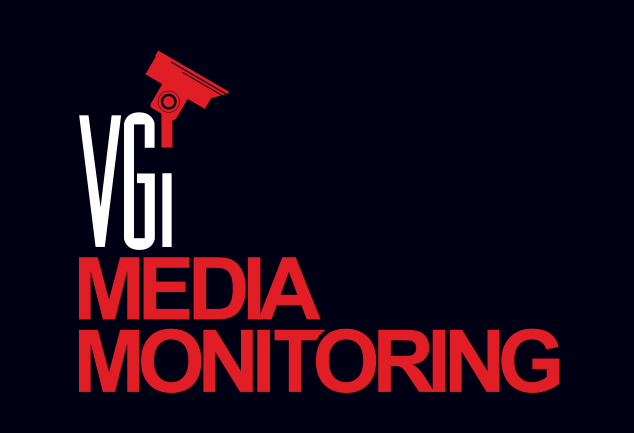
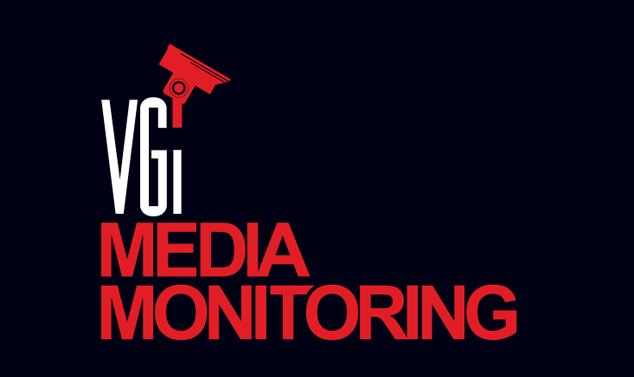
home v0.3
home v0.3

Changed region(s): [[0.1199, 0.1167, 0.8991, 0.9337]]

diff --git a/www/home.html b/www/home.html
@@ -26,65 +26,20 @@
   <body>
     <div id="main"> <!-- Main Container -->
 
-      <!-- Sidebar -->
-      <ul id="slide-out" class="side-nav primary-color1 collapsible">
-        <li>
-          <div class="sidenav-header">
 
-            <!-- Srearch bar 
-            <nav class="searchnav">
-              <div class="nav-wrapper">
-                <form>
-                  <div class="input-field">
-                    <input id="search" type="search" required>
-                    <label for="search"><i class="ion-android-search"></i></label>
-                    <i class="ion-android-close"></i>
-                  </div>
-                </form>
-              </div>
-            </nav> -->
-
-            <!-- Social Bar 
-            <div class="nav-social">
-              <i class="ion-social-facebook"></i>
-              <i class="ion-social-twitter"></i>
-              <i class="ion-social-tumblr"></i>
-            </div> -->
-
-            <!-- Avatar -->
-            <div class="nav-avatar">
-              <img class="circle avatar" src="img/user5.jpg" alt="">
-              <div class="avatar-body">
-                <h3>VGI</h3>
-                <p>VGI Global Media</p>
-              </div>
-            </div>
-          </div>
-        </li>
-
-        <!-- Menu -->
-        <li><a href="contact.html" class="no-child"><i class="ion-ios-home-outline"></i> Home</a></li>
-        <li><a href="contact.html" class="no-child"><i class="ion-ios-location-outline"></i> Contact</a></li>
-      </ul>
-      <!-- End of Sidebars -->
-      
-      <!-- Toolbar -->
-      <div class="primary-color">
-        <div class="title" align="center" style="line-height:300px; background-color:#e31f26"><img src="img/home.png" width="634" alt=""/></div>
-     
-      </div>
-      <!-- End of Toolbar -->
-      
+            
       <!-- Page Contents -->
       <div class="page-all">
-        <div class="valign w-80">Annoucement(s)</div>
-        <div id="annoucement" class="valign w-80" style="background-color:#333344; height:260px;">
+      <div class="title" align="center" style="line-height:300px; background-color:#e31f26"><img src="img/home.png" width="634" alt=""/></div>
+        <div class="valign w-80" style="font-size:18px;">Annoucement(s)</div>
+        <div id="annoucement" class="valign w-80" style="background-color:#333344; height:150px; font-size:14px; overflow-x: auto; word-wrap:break-word;">
+        
 
-dsfdsfsd
+Lorem ipsum dolor sit amet, rhoncus eu amet, felis urna luctus id arcu lacinia inceptos, et nulla conubia risus rhoncus sed nibh, bibendum faucibus massa, eget interdum bibendum. Quisque wisi neque quam, conubia malesuada, eu ut integer aenean lacus augue, sed dolor suspendisse, metus vitae elit neque. Nam morbi laoreet vel integer leo. Orci ante, sed vitae et dolor praesent sem. Aenean tempor, egestas leo ut quo, nibh vestibulum consequatur neque pellentesque quisque elementum. Vitae malesuada sed, sapien at, lobortis ut orci quis aenean. Malesuada sodales imperdiet. Lorem eu eget urna bibendum fusce, conubia cum eleifend et, sed praesent. Est faucibus ad quisque, suscipit at sit, amet vehicula blandit donec. Adipiscing ac in, aenean fermentum in. Amet sed sodales quis, praesent tellus sapien ut, risus torquent gravida vestibulum, sagittis voluptas vitae dictumst orci eget.
 
 
         </div>
-		<div id="bt-live" class="bt-live" style="bottom:40px; position:absolute; width:100%;"><img src="img/bt-live.png" alt=""/></div>
+		<div id="btn-live" class="btn-live" style="bottom:20px; position:absolute; width:100%;"><img src="img/bt-live.png" alt=""/></div>
       </div> 
       <!-- End of Page Contents -->
 

diff --git a/www/test.html b/www/test.html
@@ -1,0 +1,42 @@
+<!doctype html>
+<html>
+<head>
+<meta charset="UTF-8">
+<title>Untitled Document</title>
+<style>
+html,
+body {
+   margin:0;
+   padding:0;
+   height:100%;
+}
+#container {
+   min-height:100%;
+   position:relative;
+}
+#header {
+   background:#ff0;
+   padding:10px;
+}
+#body {
+   padding:10px;
+   padding-bottom:60px;   /* Height of the footer */
+}
+#footer {
+   position:absolute;
+   bottom:0;
+   width:100%;
+   height:60px;   /* Height of the footer */
+   background:#6cf;
+}
+</style>
+</head>
+
+<body>
+<div id="container">
+   <div id="header"></div>
+   <div id="body"></div>
+   <div id="footer"></div>
+</div>
+</body>
+</html>

diff --git a/www/css/style.css b/www/css/style.css
@@ -175,7 +175,9 @@ h1.title.big {
   margin: 0 !important;
 }
 .m-20 {
-  margin: 20px !important;
+  margin-left: 20px !important;
+  margin-right: 20px !important;
+  
 }
 .p-0 {
   padding: 0 !important;
@@ -185,6 +187,7 @@ h1.title.big {
 }
 .w-80 {
   width: 80%;
+  padding:10px;
 }
 .w-100 {
   width: 100%;
@@ -356,8 +359,11 @@ h1.title.big {
 .page-all {
   margin-top: 10px;
   overflow: auto;
-  font-size:18px;
   color:#FFFFFF;
+}
+.page-login {
+  margin-top: 30px;
+  overflow: auto;
 }
 .page.fullscreen {
   height: calc(100vh - 56px);

diff --git a/www/index.html b/www/index.html
@@ -135,7 +135,7 @@
       <!-- End of Toolbar -->
       
       <!-- Page Contents -->
-      <div class="page valign-wrapper animated fadeinright">
+      <div class="page-login valign-wrapper animated fadeinright">
         
         <div class="valign center-align w-100">
 
